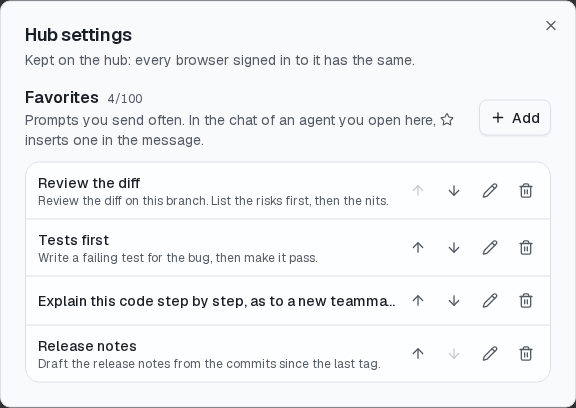
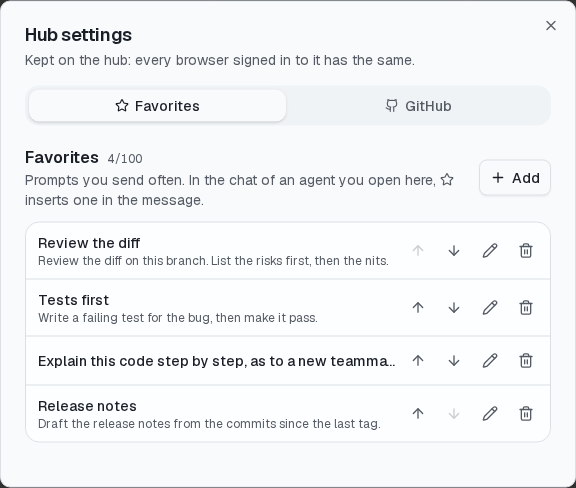
docs: the hub settings' GitHub tab
docs/hub.md and its translation describe the GitHub tab: what it
shows, Choose repositories, App settings on GitHub, and what Reconnect
and Disconnect do and leave on GitHub; the API table has the new
fields of GET /api/github. The dispatch spec has the links and the
reconnect order (§6.5), the flow doc a pointer and the screenshot.
New hub-settings-github.png; hub-settings-favorites.png again, with
the tabs. CHANGELOG under Unreleased.

diff --git a/docs/hub.md b/docs/hub.md
@@ -576,7 +576,7 @@ for the task ([Updating from the hub](#updating-from-the-hub)).
 ![Hub settings: the favorites, each with its buttons](screenshots/hub-settings-favorites.png)
 
 Favorites are prompts you send often, kept on the hub. The gear in the header opens **Hub
-settings**; its **Favorites** section lists them, and adds, edits, deletes and moves them up and
+settings** at its **Favorites** tab (the other is [GitHub](#github-settings)), which lists them, and adds, edits, deletes and moves them up and
 down. Each has a prompt of up to 20,000 characters and an optional title of up to 100; without a
 title, its first line names it. The hub keeps up to 100. A change is saved at once, and every page
 signed in to the hub shows it, so your phone and desktop have the same favorites. **Undo** brings
@@ -591,6 +591,38 @@ cursor after it. Ctrl/⌘+Z takes it back out. Past seven favorites, a search bo
 and typing in the list types in it. **Manage favorites…** opens the hub's settings at the
 favorites. The menu shows even before the first favorite, with that link. A chat opened on its own,
 in a new tab or at its AgentAPI's URL, has no ☆.
+
+### GitHub settings
+
+![Hub settings: the hub's GitHub App, where it is installed and on which repositories](screenshots/hub-settings-github.png)
+
+The **GitHub** tab of **Hub settings** shows the hub's GitHub App, which lists the
+[Issues](#issues) and which the jobs push branches and open pull requests as. On the Issues page,
+the app's name beside **Issues**, and **GitHub settings…** at the foot of the repository menu, open
+it too. It has the app's name, linked to its page on GitHub, and the account or organization that
+owns it. Below, each account the app is installed on has its picture, **All repositories** or how
+many were selected, and their first names. The section reads the app again when the hub's page
+shows again, so coming back from GitHub is enough to see a change.
+
+- **Choose repositories** opens GitHub in a new tab, where you install the app on another account
+  or pick the repositories of one it is on. **Change** beside an account goes straight to its
+  installation.
+- **App settings on GitHub** opens the app's settings: its name, permissions, and **Delete GitHub
+  App**. A hub that registered its app before 3.14 knows whose settings they are under only once
+  GitHub sends you back from an installation (after **Choose repositories** and **Save**); until
+  then the link opens the app's public page.
+- **Reconnect…** registers a new app, for your account or an organization (the current one when
+  the app is an organization's), from the hub's `/github/connect`. The hub keeps its current app
+  until GitHub hands the new one back, so leaving the flow on GitHub changes nothing. Then install
+  the new app; until you do, jobs can't get repository tokens and Issues lists nothing. The old
+  app stays on GitHub: delete it in its settings.
+- **Disconnect…** asks first, then the hub forgets its app (`DELETE /api/github`): its key and
+  where it is installed. The jobs at work can't get new repository tokens, so their pushes and pull
+  requests fail once the token they have expires, within the hour. Issues needs GitHub connected
+  again. The app stays on GitHub, installed where it was, until you delete it there.
+
+Without an app, the tab has the same **Connect GitHub** as Issues, for your account or an
+organization.
 
 ### Issues
 
@@ -677,7 +709,8 @@ Issues.
 ![Issues before GitHub is connected](screenshots/dispatch-no-github.png)
 
 Before the hub has a GitHub App, Issues shows **Connect GitHub**, which registers one from a
-manifest, for your account or an organization. An issue can still be started by its reference
+manifest, for your account or an organization. [GitHub settings](#github-settings) changes the
+app's repositories, connects another app, or disconnects it. An issue can still be started by its reference
 (`owner/repo#12`, or its URL); the machine then works with its own GitHub login. Without a launcher
 on any machine, the page shows the command that installs one.
 
@@ -954,7 +987,7 @@ running AgentAPIs, which then no longer follow their conversation for the webhoo
 | `GET /api/events` | Server-sent events: `instances` (all of them and `hub_version`, as `GET /api/instances` has them) and `favorites` (as `GET /api/favorites` has them), then `instance` (one changed what the page shows, or its work time moved by a minute; when it was last heard of counts only while it is offline), `removed` (`{"id"}`), `favorites` (all of them, after a change), `dispatch` (the [issue dispatch's](#issues) machines and jobs, as `GET /api/hosts` and `GET /api/jobs` have them, at first and after each change) and a `heartbeat` every 15 s |
 | `GET /api/hosts` | The machines whose launchers report: their agents, repositories, jobs and room, and whether each is `online` |
 | `GET /api/jobs` | The jobs, each an issue's work: its state, agent and machine, pull request, runs with their cost, and the last 50 messages its agents were sent (`messages`: `at`, `source` `hub`, `review` or `comment`, `author`, `agent`, `text`, up to 2,000 characters) |
-| `GET /api/github` | The hub's GitHub App, if any, and where it is installed |
+| `GET /api/github` | The hub's GitHub App, if any (`slug`, `owner`, `owner_type` `User` or `Organization` when the hub knows it, `html_url`, `settings_url`, `install_url`), and where it is installed (`installations`: `account`, `account_type`, `repository_selection` `all` or `selected`, `avatar_url`, `settings_url`); `DELETE` forgets the app, which stays on GitHub |
 | `GET /api/github/repos` | The repositories the app can see, the latest pushed to or changed first (`pushed_at`, `updated_at`) |
 | `GET /api/github/issues?repo=` | A repository's open issues; `POST` opens one, and with `assign`, starts work on it |
 | `POST /api/dispatch` | Starts, messages, links and stops the work on an issue (`action`: `start`, `send`, `link_pr`, `stop`); also takes `--dispatch-token` |

diff --git a/CLAUDE.md b/CLAUDE.md
@@ -76,7 +76,7 @@ persistence and the security model.
 - **`lib/agenthome/`** — The directories the agents keep their state in (`$CLAUDE_CONFIG_DIR`, `$CODEX_HOME`, `$PI_CODING_AGENT_DIR` or their defaults), for the session logs.
 - **`lib/statedb/`** — SQLite persistence of conversations (`--state-db`; a deprecated `--state-file` is imported into it). The stored state is one versioned meta value, `conversation_state` (`state.go`), moved there from its old keys on first open; the old keys are still written for one release. A database AgentAPI 2 kept for a PTY agent opens: the agent starts a new session below its conversation.
 - **`lib/instanceapi/`** — The contract between an AgentAPI and the clients that watch many: `WebhookInstance` (who it is, in its webhook events, summary and registry entry), `SummaryBody`, the webhook envelope with `Sign`/`Verify`, and `StateOf`, the state a hub shows of an instance. It imports only `lib/agentstate` and `lib/util`; `lib/hub`, `lib/registry`, `cmd/hub` and `cmd/list` use it instead of `lib/httpapi`. It also holds `AgentType`.
-- **`lib/hub/`** — `agentapi hub serve`, which depends on `lib/instanceapi` and `lib/httpmw`, not on the server: instances join with signed webhooks (`webhook.go`), the hub follows each one's `/events?only=summary` (`watch.go`), keeps them in a file (`store.go`, with when the hub saw each working in `work.go`; `persist.go` writes it in the background, a versioned envelope with a `.bak`), and serves signed-in browsers the list with each instance's `state`, their changes (`/api/events`), where machines join it (`join.go`, `/api/join`: the hub's addresses, and its secret on a hub with a token) and a proxy that opens any instance in the chat with its token (`proxy.go`); the page is `chat/src/components/hub-view.tsx` with its parts and hooks in `chat/src/components/hub/` (what the rows share in `HubListContext`), its logic in `chat/src/lib/hub.ts` (the instance, its state, the stream's events: `parseHubEvent`) with `hub-groups.ts`, `hub-machines.ts`, `hub-filter.ts`, `hub-format.ts`, `hub-spend.ts`, `hub-work.ts`, `hub-version.ts` and `hub-order.ts` beside it, its types generated from `lib/hub/hub-schema.json` (`schema.go`) into `chat/src/lib/hub-schema.ts`, what the browser keeps in `chat/src/lib/hub-settings.ts`, and the changes it makes through `chat/src/lib/hub-api.ts`; the chat it opens in a frame draws the instance's bar (`hub/frame-bar.tsx`, from window messages in `chat/src/lib/hub-frame.ts`, read by `parseToFrame` and `parseFromFrame`). The favorite prompts are the first of the hub's settings (`hubSettings`, `store.updateSettings`), kept in the same file (`favorites.go`, `GET`/`PUT /api/favorites`; the file has them in `settings` and, for hubs of 3.5 to 3.7, at its top level), managed in the page's settings (`hub/settings.tsx`, `hub/favorites-settings.tsx`) and sent to the framed chat, whose composer inserts one (`message-input/favorites-menu.tsx`).
+- **`lib/hub/`** — `agentapi hub serve`, which depends on `lib/instanceapi` and `lib/httpmw`, not on the server: instances join with signed webhooks (`webhook.go`), the hub follows each one's `/events?only=summary` (`watch.go`), keeps them in a file (`store.go`, with when the hub saw each working in `work.go`; `persist.go` writes it in the background, a versioned envelope with a `.bak`), and serves signed-in browsers the list with each instance's `state`, their changes (`/api/events`), where machines join it (`join.go`, `/api/join`: the hub's addresses, and its secret on a hub with a token) and a proxy that opens any instance in the chat with its token (`proxy.go`); the page is `chat/src/components/hub-view.tsx` with its parts and hooks in `chat/src/components/hub/` (what the rows share in `HubListContext`), its logic in `chat/src/lib/hub.ts` (the instance, its state, the stream's events: `parseHubEvent`) with `hub-groups.ts`, `hub-machines.ts`, `hub-filter.ts`, `hub-format.ts`, `hub-spend.ts`, `hub-work.ts`, `hub-version.ts` and `hub-order.ts` beside it, its types generated from `lib/hub/hub-schema.json` (`schema.go`) into `chat/src/lib/hub-schema.ts`, what the browser keeps in `chat/src/lib/hub-settings.ts`, and the changes it makes through `chat/src/lib/hub-api.ts`; the chat it opens in a frame draws the instance's bar (`hub/frame-bar.tsx`, from window messages in `chat/src/lib/hub-frame.ts`, read by `parseToFrame` and `parseFromFrame`). The favorite prompts are the first of the hub's settings (`hubSettings`, `store.updateSettings`), kept in the same file (`favorites.go`, `GET`/`PUT /api/favorites`; the file has them in `settings` and, for hubs of 3.5 to 3.7, at its top level), managed in the page's settings (`hub/settings.tsx`, a dialog with tabs: `hub/favorites-settings.tsx`, and `hub/github-settings.tsx`, the hub's GitHub App with links to GitHub, Reconnect and Disconnect, its logic in `chat/src/lib/hub-github.ts`) and sent to the framed chat, whose composer inserts one (`message-input/favorites-menu.tsx`).
 - **`lib/sse/`** — Server-sent events as the HTML standard defines them (`Reader`, `Write`), for the hub's streams; `lib/httpapi` writes its own with huma's `sse`.
 - **`lib/netaddr/`** — The machine's IPv4 addresses: those other machines may reach it at (the hub's join URLs, `Reachable`), and `Resolver`, the source address of the route to a host (kept 30 s, each lookup bounded by `DialTimeout`). It fills in `{ip}` in `--public-url` for every webhook event, summary and registry entry; the webhook dispatcher looks it up in the background and the events read the last answer.
 - **`lib/userconfig/`** — The user's settings file, `~/.agentapi/config.yaml`: `agentapi server` flags by name, below flags and `AGENTAPI_*` variables (`cmd/server/userconfig.go`); `agentapi hub join` writes a hub's webhook into it.

diff --git a/docs/screenshots/README.md b/docs/screenshots/README.md
@@ -40,6 +40,12 @@ and the issues and jobs of `acme/web`, `acme/api` and `acme/infra`, at a fixed t
 Codex, a local bare repository in place of github.com, and a fake GitHub API. None of them are
 part of `capture-docs.mjs`.
 
+`hub-settings-github.png` came from the same kind of build and fixtures: an app of the `acme`
+organization installed on `acme` (24 selected repositories) and on a user, `dave` (all three of
+his), with the accounts' pictures drawn locally in place of GitHub's. Since the settings dialog
+has tabs, `hub-settings-favorites.png` was taken the same way, with the favorites
+`capture-docs.mjs` puts on its hub; the script takes it again as before.
+
 ## Gallery
 
 Desktop views are 1440 × 1000 (or a part of one), phone views 390 × 844, all in the light theme at a
@@ -91,7 +97,8 @@ device scale factor of 1.
 | [hub-sign-in.png](hub-sign-in.png) | Signing in to the hub, beside its picture of agents in their states |
 | [hub-list.png](hub-list.png) | The hub's list: two pinned agents, then two groups and Ungrouped, with every state's glyph: approval, question, login, usage limit, working, finished, idle, unreachable, stopped; and each agent's AgentAPI version, one older than the hub |
 | [hub-add.png](hub-add.png) | The Add dialog: joining a machine (the hub's address, updates from the hub, the command and a prompt for an agent, the secret masked), or adding an instance by its URL and token |
-| [hub-settings-favorites.png](hub-settings-favorites.png) | Hub settings: the favorites, each with its buttons to move, edit and delete it |
+| [hub-settings-favorites.png](hub-settings-favorites.png) | Hub settings at its Favorites tab: the favorites, each with its buttons to move, edit and delete it |
+| [hub-settings-github.png](hub-settings-github.png) | Hub settings at its GitHub tab: the hub's GitHub App, the accounts it is installed on with their repositories, and Choose repositories, App settings on GitHub, Reconnect and Disconnect |
 | [hub-recent.png](hub-recent.png) | The hub's list by the agents' latest changes: the pinned agents, then one list without group headers, the most recent first, and each row's group where it has room |
 | [hub-machines.png](hub-machines.png) | The hub's list By machine in the groups: the pinned agents, then each group with a card per machine: the machine with its version and spend once, a tab per agent with its state's dot, and the picked agent below, one older than the hub |
 | [hub-machines-recent.png](hub-machines-recent.png) | The hub's list By machine in the recent order: the pinned agents, then a card per machine without group headers, the machine of the latest change first, each with the age of that change and the agent that changed last |

diff --git a/CHANGELOG.md b/CHANGELOG.md
@@ -1,5 +1,26 @@
 # Changelog
 
+## Unreleased
+
+### Features
+
+- Hub settings has a **GitHub** tab beside Favorites, which the Issues page opens too (the app's
+  name beside Issues, or **GitHub settings…** in the repository menu). It shows the hub's GitHub
+  App, its owner, and each account it is installed on with its picture and repositories, and
+  links to GitHub in a new tab: **Choose repositories**, each account's installation, and the
+  app's settings. **Reconnect…** registers a new app, for your account or an organization; the
+  hub keeps its app until GitHub hands the new one back. **Disconnect…** asks first and says what
+  stops. The tab reads the app again when you come back from GitHub. See
+  [GitHub settings](docs/hub.md#github-settings).
+- `GET /api/github` says whether the app's owner is a user or an organization, and has the app's
+  settings page and each installation's page and avatar.
+
+### Fixes
+
+- A new GitHub App connected in place of the hub's drops the old app's cached repository tokens,
+  which the hub went on handing to jobs until they expired. The connect page names the app it
+  would replace.
+
 ## v3.13.0
 
 ### Features

diff --git a/docs/specs/issue-dispatch-flow.zh-TW.md b/docs/specs/issue-dispatch-flow.zh-TW.md
@@ -200,6 +200,10 @@ flowchart TB
 
 ![/github/connect](../screenshots/dispatch-github-connect.png)
 
+接上之後，改安裝的 repo、換一個 App 或中斷連接，都在 Hub settings 的 **GitHub** 分頁（Issues 頁上點 App 的名稱也會開到這裡）。Reconnect 不會先中斷：新 App 從 GitHub 回來才取代舊的，中途取消一切照舊（規格 §6.5）。
+
+![Hub settings 的 GitHub 分頁](../screenshots/hub-settings-github.png)
+
 ## 7. Job 狀態
 
 ```mermaid
